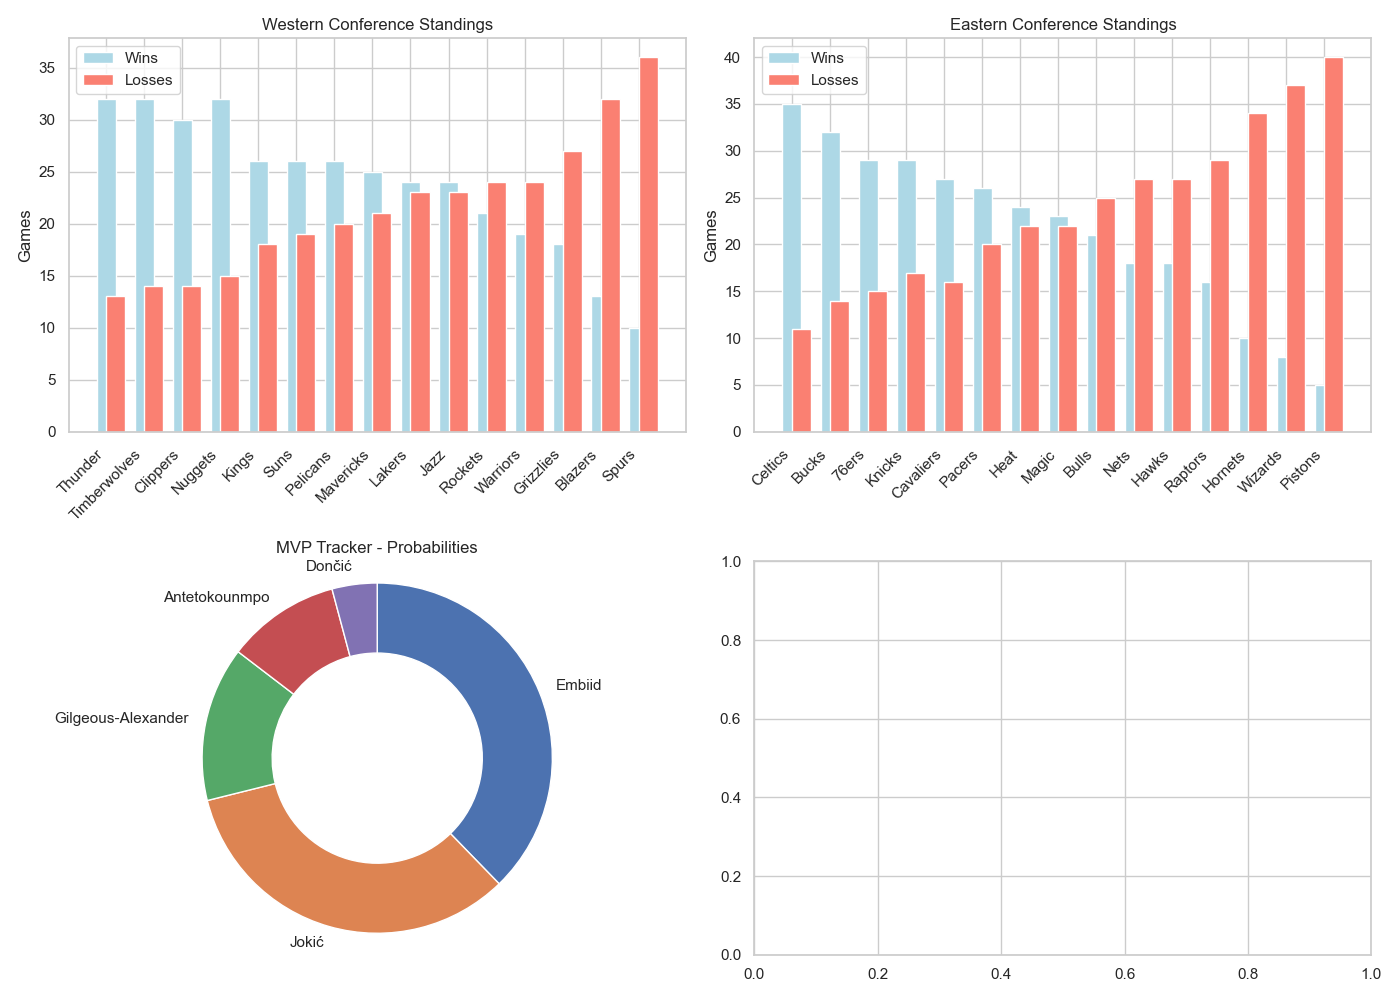
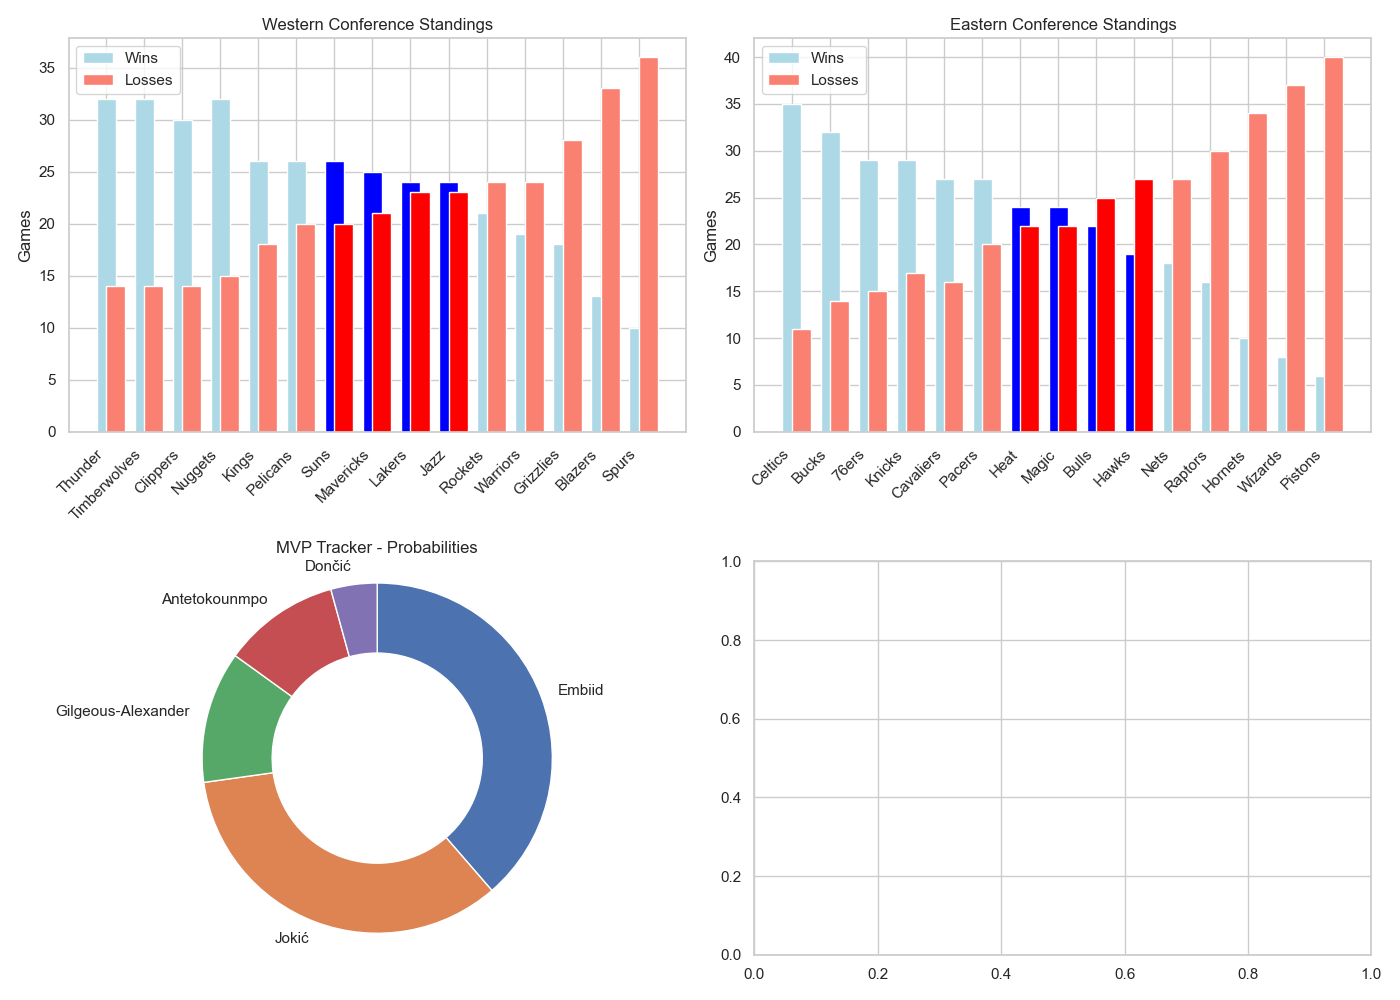
Update standings for play-in teams

diff --git a/main.py b/main.py
@@ -56,9 +56,16 @@ def plot_teams_standings(teams, conference_name, ax):
 
     df = pd.DataFrame(data)
 
+    wins_colors = ['lightblue' for _ in range(len(df['Team']))]
+    losses_colors = ['salmon' for _ in range(len(df['Team']))]
+
+    for i in range(6, 10):
+        wins_colors[i] = 'blue'
+        losses_colors[i] = 'red'
+
     sns.set(style='white')
-    ax.bar(range(len(df['Team'])), df['Wins'], color='lightblue', label='Wins', width=0.5, align='center')
-    ax.bar(range(len(df['Team'])), df['Losses'], color='salmon', label='Losses', width=0.5, align='edge')
+    ax.bar(range(len(df['Team'])), df['Wins'], color=wins_colors, label='Wins', width=0.5, align='center')
+    ax.bar(range(len(df['Team'])), df['Losses'], color=losses_colors, label='Losses', width=0.5, align='edge')
     ax.set_title(f'{conference_name} Conference Standings')
     ax.set_ylabel('Games')
     ax.set_xticks(range(len(df['Team'])))
